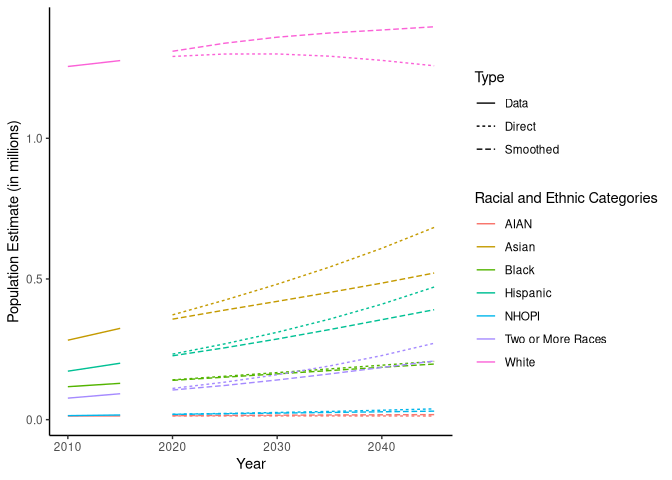
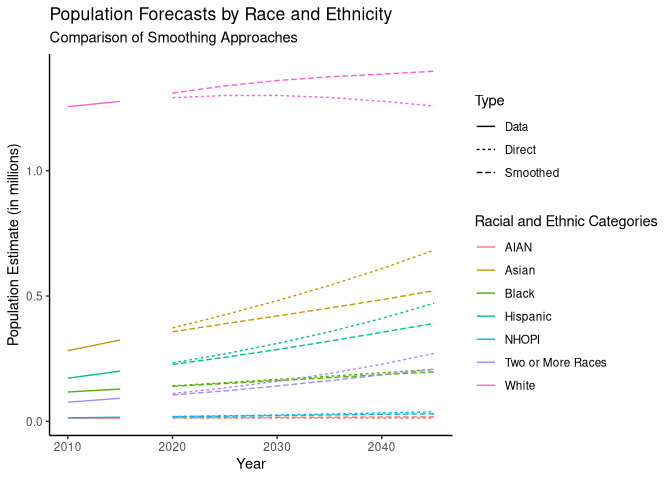
fix: change the aggregation code

diff --git a/README.md b/README.md
@@ -60,11 +60,8 @@ interested in making projections for all provided racial and ethnic
 groups without smoothing. The code would be the following
 
 ``` r
-raceth_DF <- kc_pop_data[
-    ,.(value = sum(value)), by = list(Year, Sex, Race, Age5, County)]
-
 unsmooth_DF <- multi_stage_group_HP_project(
-    raceth_DF, stages = list(c("County", "Race")))
+    kc_pop_data, stages = list(c("County", "Race")))
 ```
 
 Here we provided the `multi_stage_group_HP_project` a stages parameter
@@ -75,7 +72,7 @@ provide a list of length 2 as seen below.
 
 ``` r
 smooth_DF <- multi_stage_group_HP_project(
-    raceth_DF, stages = list("County", "Race"))
+    kc_pop_data, stages = list("County", "Race"))
 ```
 
 We can compare the smooth to the non-smoothed estimates visually to see
@@ -83,6 +80,9 @@ the effects that the smoothing process had on the projections.
 
 ``` r
 library(ggplot2)
+
+raceth_DF <- kc_pop_data[
+    ,.(value = sum(value)), by = list(Year, Sex, Race, Age5, County)]
 
 raceth_DF[,Type:="Data"]
 smooth_DF[,Type:="Smoothed"]
@@ -96,7 +96,10 @@ bind_rows(raceth_DF, smooth_DF, unsmooth_DF) %>%
     theme_classic() +
     labs(
         y = "Population Estimate (in millions)",
-        color = "Racial and Ethnic Categories")
+        color = "Racial and Ethnic Categories") +
+    ggtitle(
+        "Population Forecasts by Race and Ethnicity",
+        "Comparison of Smoothing Approaches")
 ```
 
 ![](README_files/figure-gfm/unnamed-chunk-5-1.png)<!-- -->
